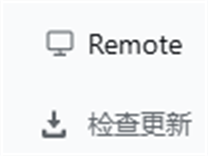
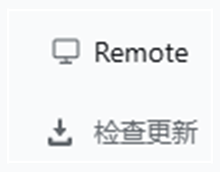
docs: 侧栏配图补上与侧栏一致的底色留白
按元素边界裁切后两侧和上下贴得太紧，图看起来像被切断的。补 6px 横向、8px 纵向留白，底色取侧栏实际的 rgb(249,250,251)，这样图自成一块而不是浮在白色里。

diff --git a/README.md b/README.md
@@ -33,7 +33,7 @@ DeepSeek Harness 网页版（web）是用你自己的本地仓库跑的，升级
 
 按钮在侧栏底部。同一行里兄弟按钮高度接近就并排，差得多就自己占一行——下面这张图中 Remote 是 42px、我们是 32px，所以各占一行：
 
-<p align="left"><img src="docs/images/sidebar-layout.png" width="208" alt="侧栏底部：Remote 与「检查更新」，两者高度不同，各占一行"></p>
+<p align="left"><img src="docs/images/sidebar-layout.png" width="220" alt="侧栏底部：Remote 与「检查更新」，两者高度不同，各占一行"></p>
 
 ### 检查更新浮层
 
